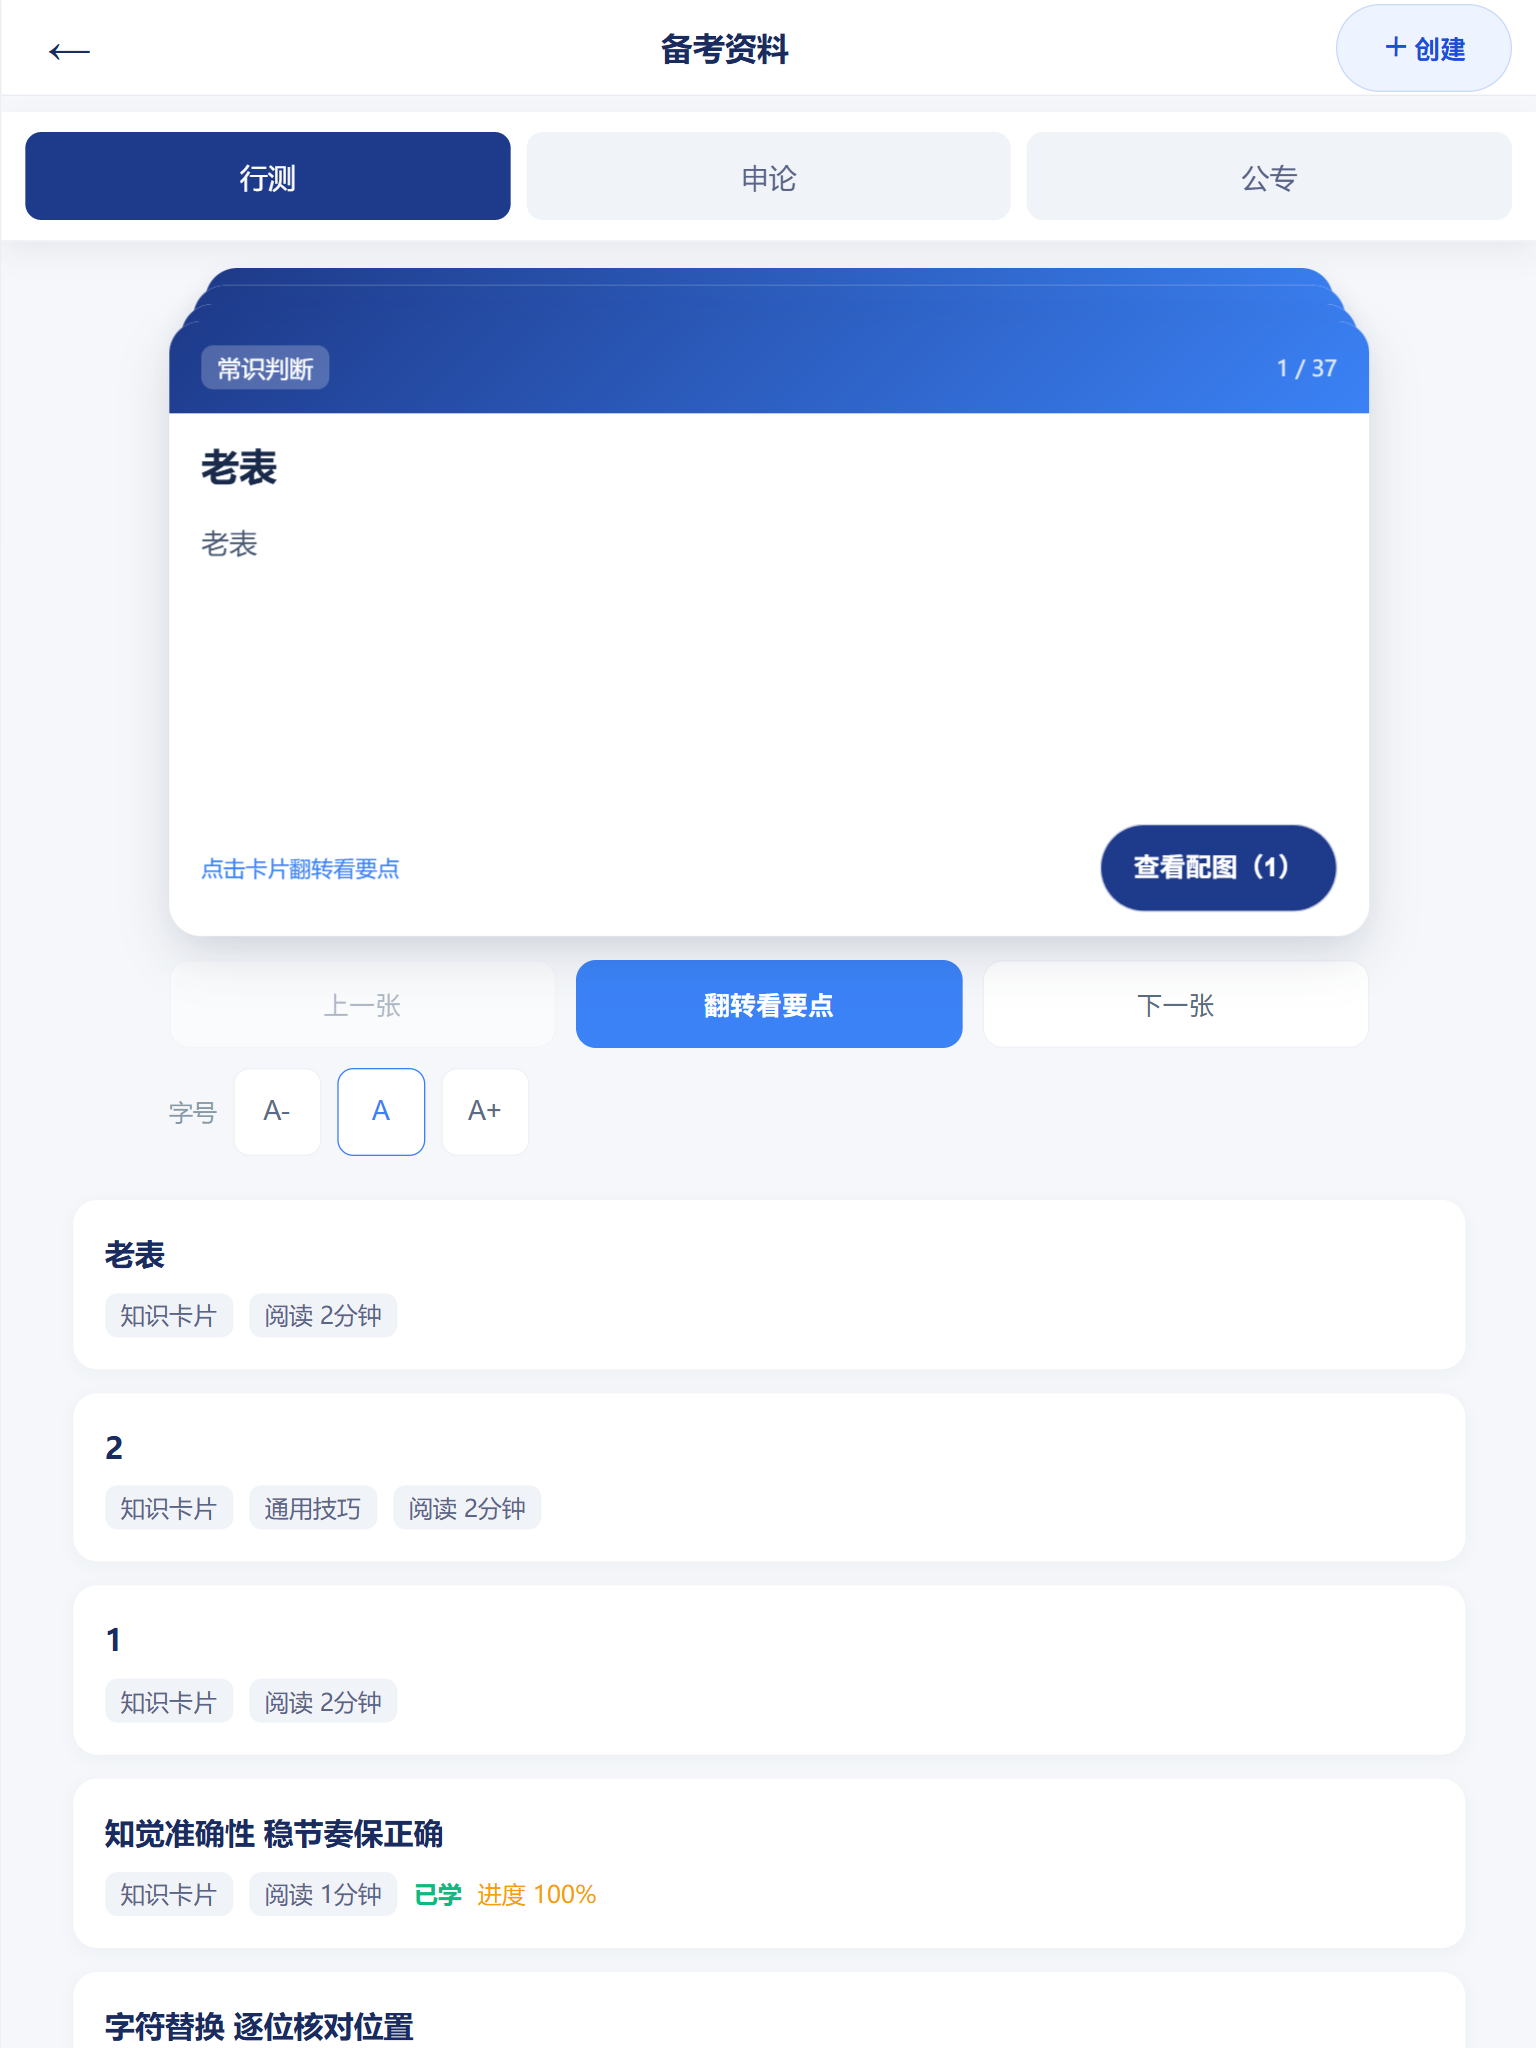
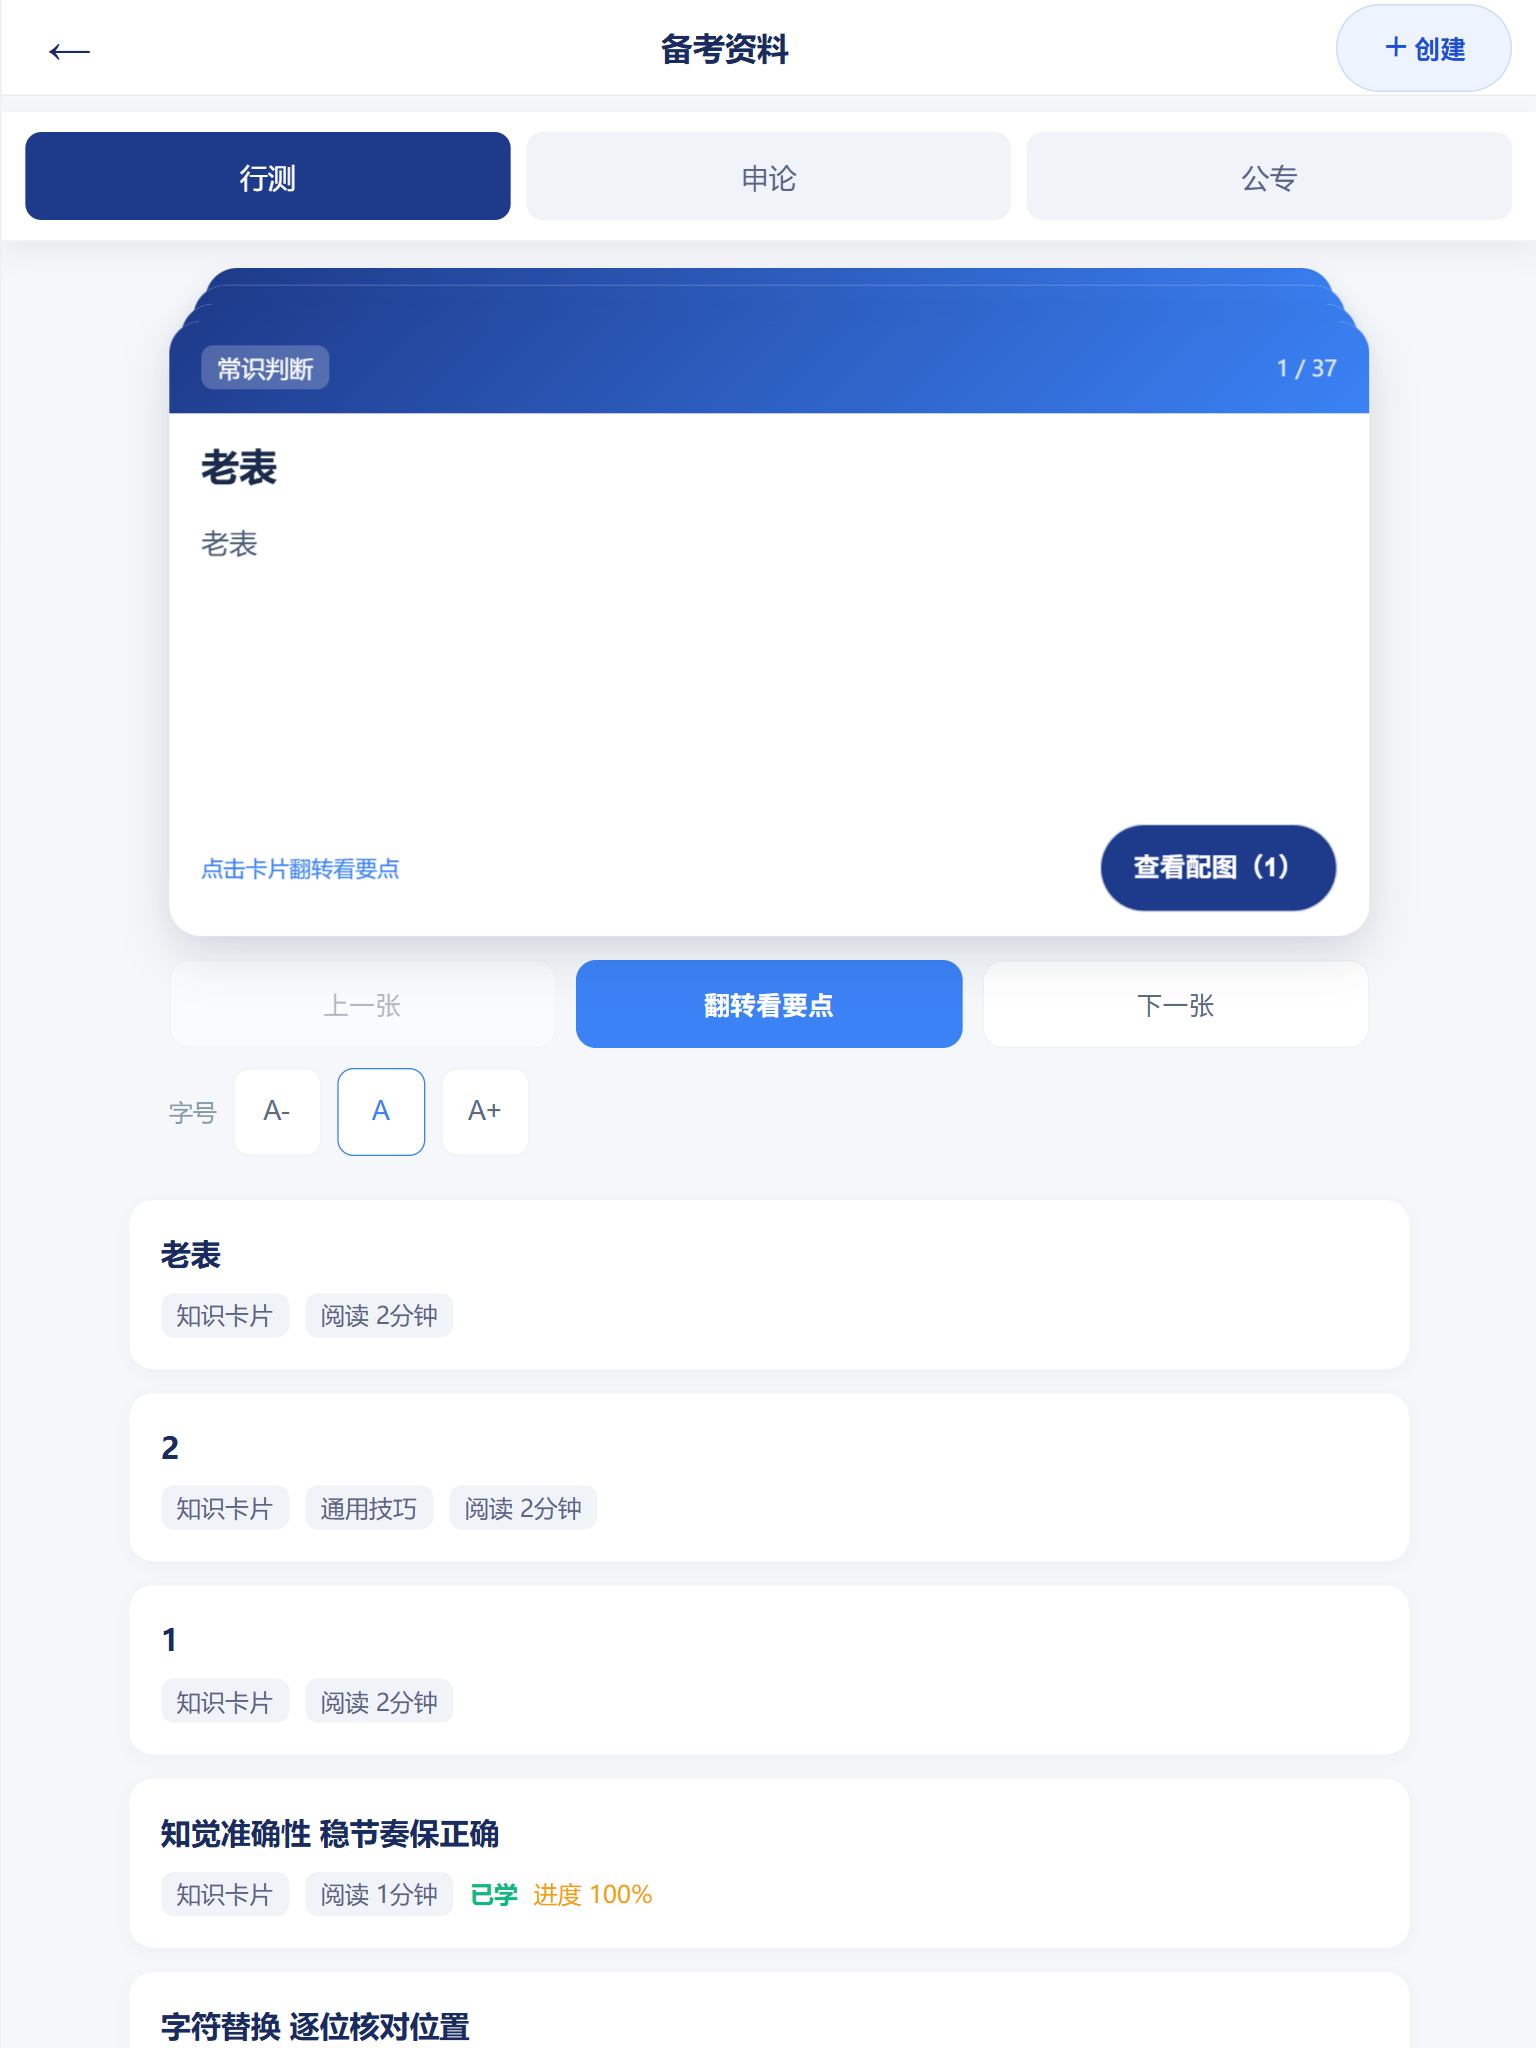
fix(tablet): 全图查看器触控按钮 30px→44px + 列表与卡片栈宽度对齐
- ImageLightbox.vue：@media(pointer:coarse) 下 .lb-tool 44x44、.lb-nav 48x88
  （平板实测原为 缩小35x30 / 放大35x30 / 1:1 41x30 / 关闭34x30）
- mobile_materials.vue：列表限宽从 720 改为与卡片栈一致的 640（原先左边缘差 40px 看着错位）
- 报告补第 8 节「仍然存在的问题」10 条（含全图无手势、上传页通栏、PC/平板双开、无平板断言等）

实测：平板全图工具 smallTools 4→0、资料页 smallTap 0、gate_all 10/10、vitest 457、vue-tsc 0

diff --git a/src/views/student/mobile/mobile_materials.vue b/src/views/student/mobile/mobile_materials.vue
@@ -822,7 +822,8 @@ onMounted(fetchMaterials);
   .create-btn { min-height: 44px; min-width: 88px; border-radius: 22px; }
   .back-btn { min-height: 44px; min-width: 44px; }
   .font-row button { height: 44px; }
-  .list { width: 100%; max-width: 720px; margin: 0 auto; }
+  /* 列表与卡片栈同宽（640），否则左侧比卡片多出 40px，看着「错位」 */
+  .list { width: 100%; max-width: 640px; margin: 0 auto; padding: 12px 0 0; }
 }
 
 @media (prefers-reduced-motion: reduce) {

diff --git a/src/components/materials/ImageLightbox.vue b/src/components/materials/ImageLightbox.vue
@@ -223,4 +223,16 @@ onBeforeUnmount(() => {
   font-size: 12px;
   color: #93a2ba;
 }
+/* 触屏（平板/手机）：工具条按钮 30px 太小，补到 44px 最小可点区；PC 鼠标端不变。
+ * 平板实测：缩小 35×30、放大 35×30、1:1 41×30、关闭 34×30。 */
+@media (pointer: coarse) {
+  .lb-tool {
+    min-width: 44px;
+    min-height: 44px;
+  }
+  .lb-nav {
+    width: 48px;
+    height: 88px;
+  }
+}
 </style>

diff --git a/docs/plans/备考资料_平板端设计构建现状_核查报告_v1.md b/docs/plans/备考资料_平板端设计构建现状_核查报告_v1.md
@@ -135,10 +135,28 @@
 - 图：`docs/plans/assets/备考资料_平板端验收/01–11`（首页、我的入口、资料页 768、翻页后、背面、全图、建卡弹层、徽章页、Excel 上传页、PC 页在平板、横屏 1024）
 - 原始数据：同目录 `_audit.json`（含每次运行的实测值，可直接复跑对比）
 
-## 8. 已知不足（本报告自身）
+## 8. 仍然存在的问题（v2 复核后，按严重度）
+
+| # | 问题 | 实测证据 | 影响 | 建议 |
+|---|---|---|---|---|
+| 1 | **平板首页没有备考资料/徽章入口** | `.vtj/vue/tablet_home.vue` 中 `materials`/`badge`/`备考`/`徽章` 0 命中；唯一入口是「我的 → 离线下载」 | 用户拿到平板找不到资料模块；入口文案还叫「离线下载」 | 需在设计器拖（R3），或授权 DOM 注入 |
+| 2 | **全图查看器没有触摸手势** | `ImageLightbox.vue` 只有 `@click` / 滚轮 / Esc，无 `touchstart`/pinch；工具按钮原来 35×30、34×30 | 平板上不能双指缩放、不能左右滑动切图，只能点按钮 | 手势支持需新增代码（约 50 行 + 测试），待批准 |
+| 3 | **`/materials/upload` 通栏无上限** | 实测容器 `max-width: none`、宽 768，正文行宽 ~700px | 超长行影响可读性 | 加 `max-width: 720px; margin: 0 auto` |
+| 4 | **PC 页与平板页双开，没有拦截** | `/materials/shenlun` 在 768 下仍渲染 `.mat-page`，卡片 702×**1340** | 同一功能两套界面；纵向一屏只看到标题 | 属 B 档：要么平板拦到 `/tablet/materials`，要么 PC 页做窄屏降级 |
+| 5 | **仍有 PC-only 的资料路由** | `/materials/detail`、`/materials-preview`、`/materials/{科目}` 无平板版本，`DEVICE_ROUTE_MAP` 也未列 | 平板从收藏/搜索进详情会落 PC 版 | 与 #4 一起在 B 档处理 |
+| 6 | **`meta.platform` 声明了但没人消费** | `src/` 中 `meta.platform` 0 处读取 | 没有「按平台开能力」的机制，平板差异化无处挂 | C 档引入 `usePlatform()` 或在路由层集中消费 |
+| 7 | **平板验收只有测量、没有断言，也没进门禁** | `tablet_audit_shots.mjs` 只 `console.log` + 落 JSON，`gate_all` 未调用 | 44px/比例这些问题下次改动不会自动被发现 | 建议加 5–8 条 PASS/FAIL 并接进 L5/L6 |
+| 8 | 徽章页「去金币购 →」文字链 78×20 | 实测 | 次要，可给 padding | 顺手 |
+| 9 | 未在真机验证 | 仅 Chrome 模拟 + iPad UA + 触屏模拟 | 安全区/字体/滚动惯性可能有差异 | 需真机抽检 |
+| 10 | 平板端只覆盖学生端 | 本轮未核教师/管理端 | 管理端平板体验未知 | 后续范围 |
+
+> v2 已顺手修掉的：全图工具按钮 30px → **44×44**；列表与卡片栈宽度对齐（原 720 vs 640 相差 40px，看着错位）。
+
+## 9. 已知不足（本报告自身）
 
 1. 翻转/翻页的「中间帧」受 Chrome 遮挡不产帧影响，只能验状态类与终态尺寸，不能截图留证动画过程（与四轮同因）。
 2. 未在真机（iPad / 安卓平板）上验证，用的是 Chrome 设备模拟 + iPad UA + 触屏模拟；真机的安全区、字体回退、滚动惯性可能有差异。
 3. 没有覆盖管理端/教师端在平板上的表现（本轮只核学生端备考资料链路）。
 4. 「离线下载」按钮实际跳的是备考资料，文案与行为不一致，这条是既有实现，未在本轮改动。
 5. 本报告初稿曾把遮罩 `.cc-mask` 当弹层面板，误记「建卡弹层满屏」；复测 `.cc-panel` = 520×440 后已更正并在第 4 节留痕。
+6. A 档第一版把列表限到 720、卡片栈限到 640，两者左边缘差 40px（截图可见错位）；已在复核中统一为 640。
